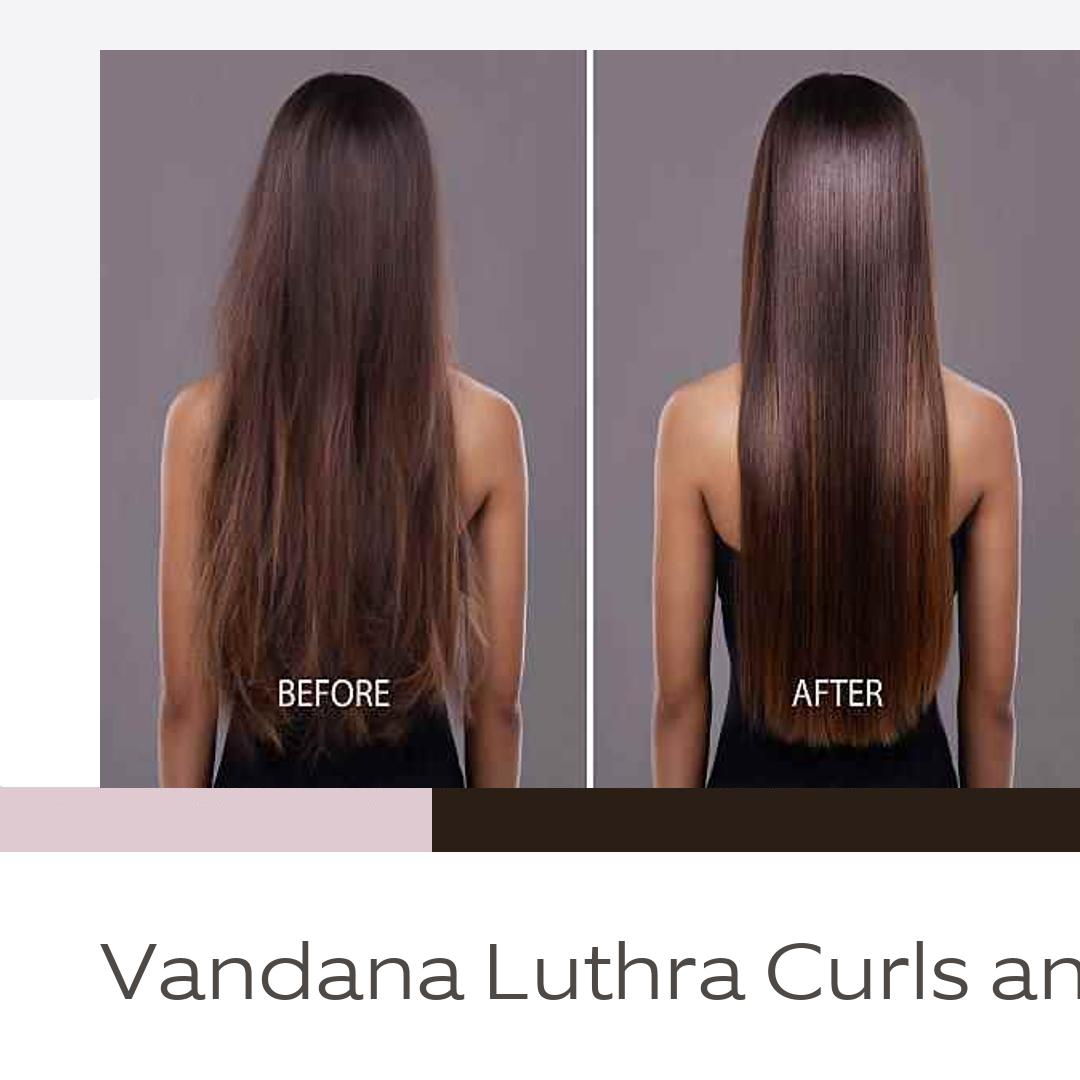
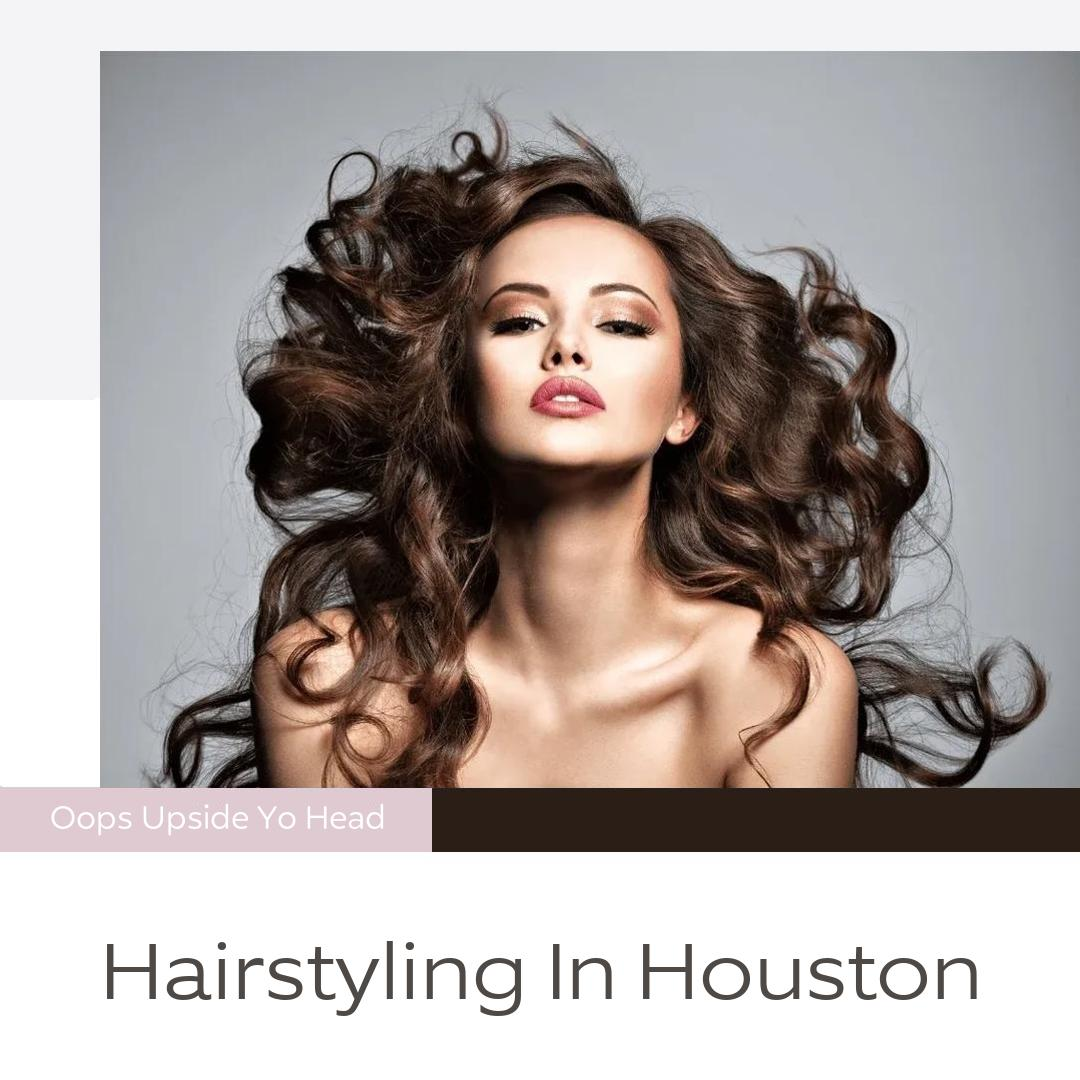
new python file added for user input

diff --git a/task.py b/task.py
@@ -15,16 +15,23 @@ brand_service_img = Image.open('Input Image/Hairstyle.jpg').resize((980,738))
 output_img = template_img.copy() #copy image
 output_img.paste(brand_service_img,(100,50,1080,788))
 
-"""(91,938),(970,995)"""
+
+
 # Call draw Method to add 2D graphics in an image
+brand_name = ImageDraw.Draw(output_img)
 service_name = ImageDraw.Draw(output_img)
+
+# Custom font style and font size
+brandFont = ImageFont.truetype('Fonts/PromoTest-Normal-BF63b78802deb68.otf', 33)
 serviceFont = ImageFont.truetype('Fonts/EquipExtended W03 Light.ttf', 80)
 
 # Add Text to an image
-service_name.text((100, 920), "Vandana Luthra Curls and Curves (VLCC)", font=serviceFont, fill=("#4E4945"))
+brand_name.text((50, 796), "Oops Upside Yo Head", font=brandFont, fill=("white"))
+service_name.text((100, 920), "Hairstyling In Houston", font=serviceFont, fill=("#4E4945"))
 
 #save output image in folder
 output_img.save('Output Image/pillow_img.jpg')
 
 #show output image
 output_img.show()
+

diff --git a/user_input_task.py b/user_input_task.py
@@ -1,0 +1,17 @@
+from PIL import Image, ImageDraw, ImageFont
+import tkinter
+from tkinter import filedialog 
+tkinter.Tk().withdraw() #close the root window
+in_path = filedialog.askopenfilename()
+img=Image.open(in_path)
+
+template_img = Image.open('Input Image/template.jpg') #open image
+
+""" Cooridinates of template where we have to paste brand_service_img : upper left corner(100,50), bottom right corner(1080,788)
+From Coordinates, we obtain height and width of image we have to paste on template :
+Width = 1080-100 = 980 
+Height = 788-50 = 738 """
+brand_service_img=img.resize((980,738))
+output_img = template_img.copy() #copy image
+output_img.paste(brand_service_img,(100,50,1080,788)) #paste image
+output_img.show()
